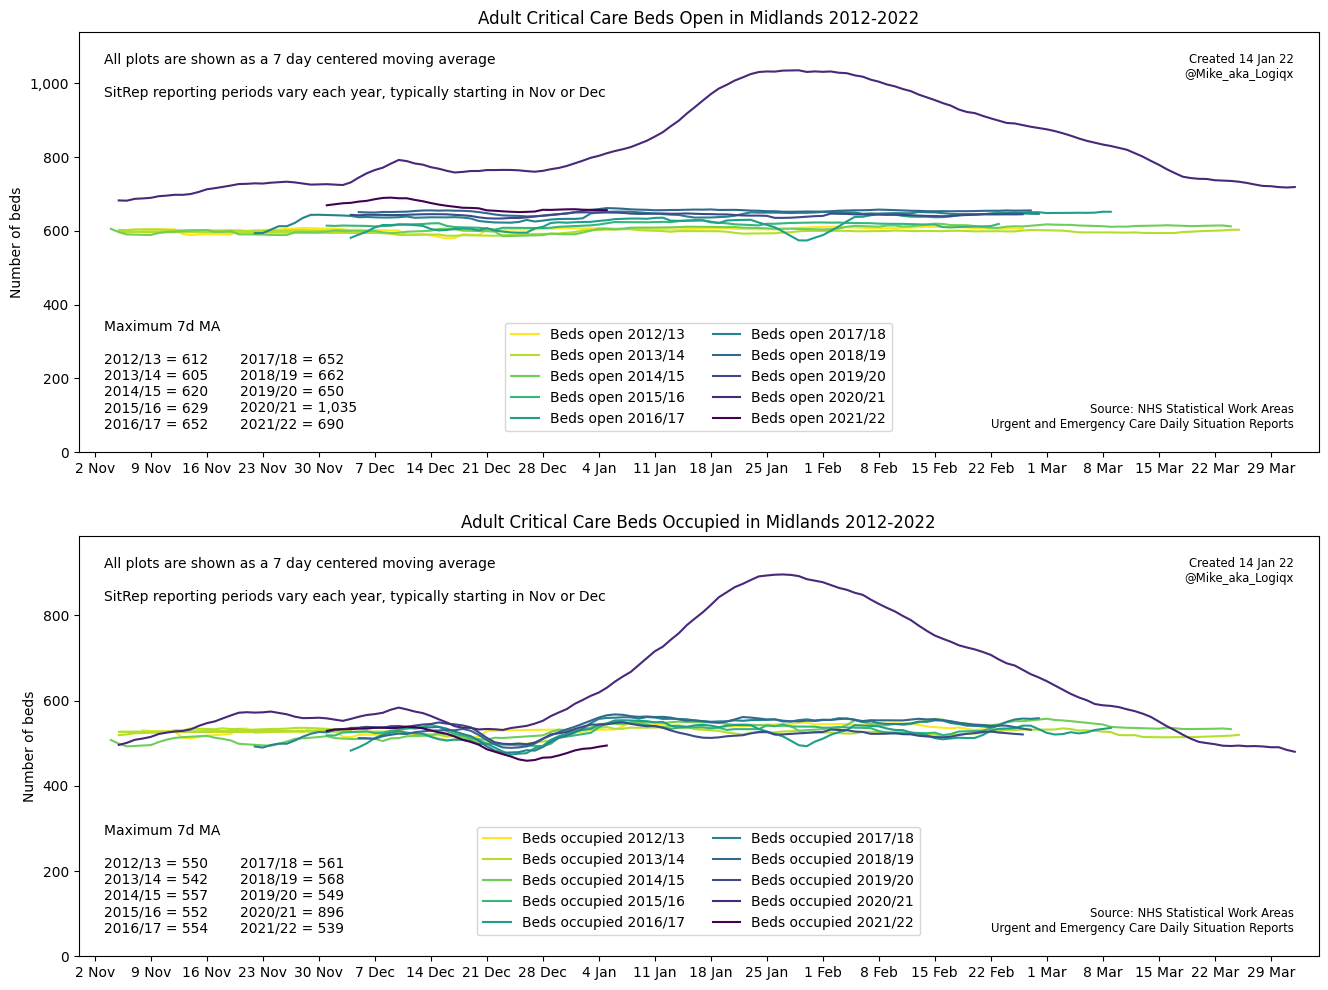
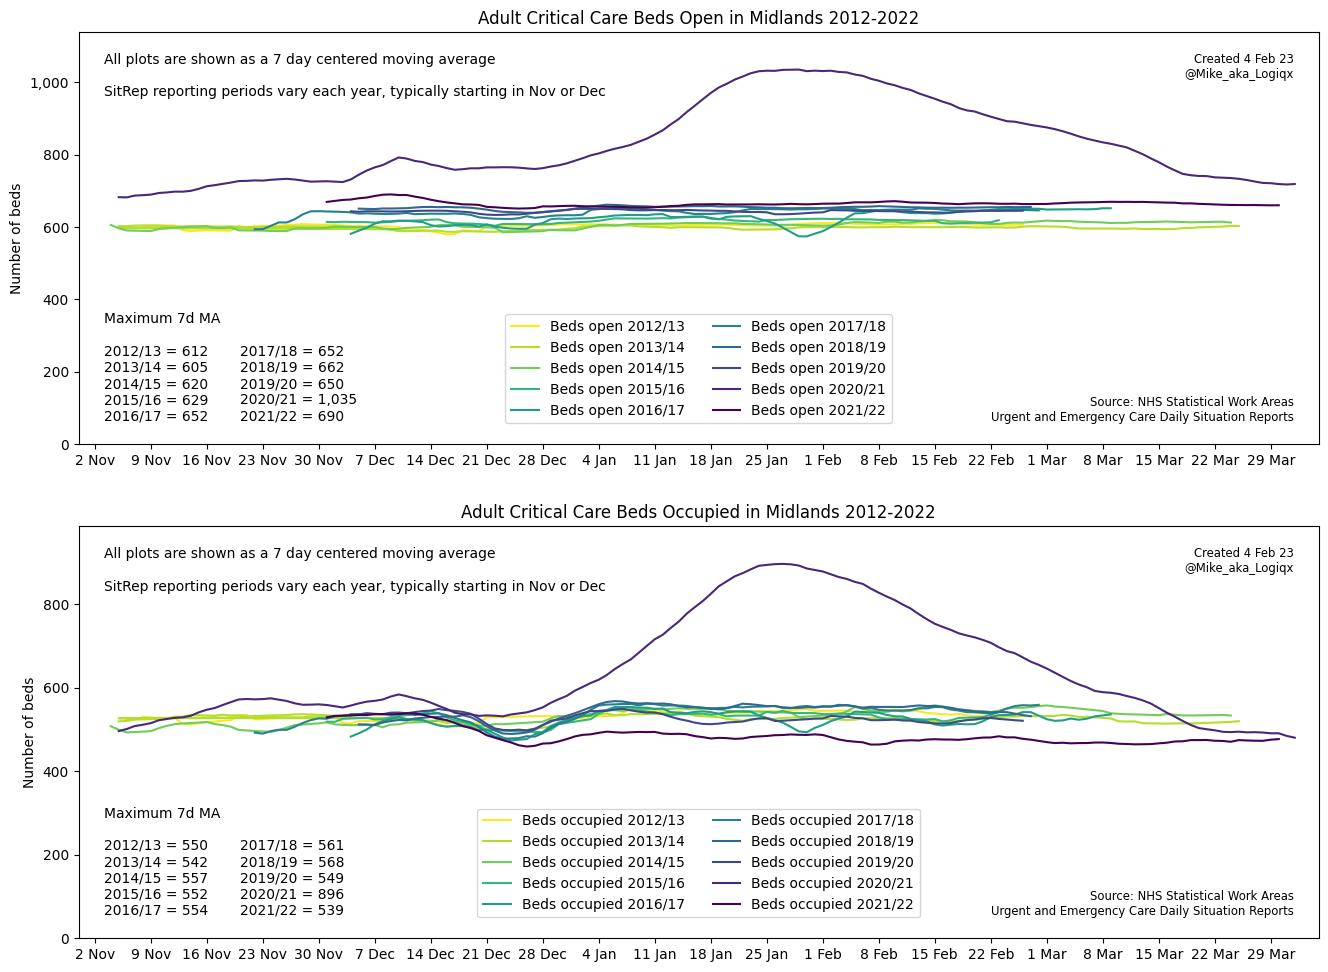
Re-run sitrep reports for full 2021-2022 season

diff --git a/docs/uec-sitreps/gallery.html b/docs/uec-sitreps/gallery.html
@@ -27,13 +27,13 @@
 
 	<div class="gallery" itemscope itemtype="http://schema.org/ImageGallery">
 		<figure itemprop="associatedMedia" itemscope itemtype="http://schema.org/ImageObject">
-			<a href="./england.png" itemprop="contentUrl" data-size="1328x990">
+			<a href="./england.png" itemprop="contentUrl" data-size="1328x972">
 				<img src="./england_thumb.png" itemprop="thumbnail" alt="England">
 			</a>
 			<figcaption itemprop="caption description">England</figcaption>
 		</figure>
 		<figure itemprop="associatedMedia" itemscope itemtype="http://schema.org/ImageObject">
-			<a href="./london.png" itemprop="contentUrl" data-size="1328x990">
+			<a href="./london.png" itemprop="contentUrl" data-size="1328x972">
 				<img src="./london_thumb.png" itemprop="thumbnail" alt="London">
 			</a>
 			<figcaption itemprop="caption description">London</figcaption>
@@ -43,13 +43,13 @@
 
 	<div class="gallery" itemscope itemtype="http://schema.org/ImageGallery">
 		<figure itemprop="associatedMedia" itemscope itemtype="http://schema.org/ImageObject">
-			<a href="./south_east.png" itemprop="contentUrl" data-size="1315x990">
+			<a href="./south_east.png" itemprop="contentUrl" data-size="1315x972">
 				<img src="./south_east_thumb.png" itemprop="thumbnail" alt="South East">
 			</a>
 			<figcaption itemprop="caption description">South East</figcaption>
 		</figure>
 		<figure itemprop="associatedMedia" itemscope itemtype="http://schema.org/ImageObject">
-			<a href="./east_england.png" itemprop="contentUrl" data-size="1315x990">
+			<a href="./east_england.png" itemprop="contentUrl" data-size="1315x972">
 				<img src="./east_england_thumb.png" itemprop="thumbnail" alt="East of England">
 			</a>
 			<figcaption itemprop="caption description">East of England</figcaption>
@@ -59,13 +59,13 @@
 
 	<div class="gallery" itemscope itemtype="http://schema.org/ImageGallery">
 		<figure itemprop="associatedMedia" itemscope itemtype="http://schema.org/ImageObject">
-			<a href="./north_west.png" itemprop="contentUrl" data-size="1315x990">
+			<a href="./north_west.png" itemprop="contentUrl" data-size="1315x972">
 				<img src="./north_west_thumb.png" itemprop="thumbnail" alt="North West">
 			</a>
 			<figcaption itemprop="caption description">North West</figcaption>
 		</figure>
 		<figure itemprop="associatedMedia" itemscope itemtype="http://schema.org/ImageObject">
-			<a href="./north_east_yorkshire.png" itemprop="contentUrl" data-size="1315x990">
+			<a href="./north_east_yorkshire.png" itemprop="contentUrl" data-size="1315x972">
 				<img src="./north_east_yorkshire_thumb.png" itemprop="thumbnail" alt="North East and Yorkshire">
 			</a>
 			<figcaption itemprop="caption description">North East and Yorkshire</figcaption>
@@ -75,13 +75,13 @@
 
 	<div class="gallery" itemscope itemtype="http://schema.org/ImageGallery">
 		<figure itemprop="associatedMedia" itemscope itemtype="http://schema.org/ImageObject">
-			<a href="./midlands.png" itemprop="contentUrl" data-size="1328x990">
+			<a href="./midlands.png" itemprop="contentUrl" data-size="1328x972">
 				<img src="./midlands_thumb.png" itemprop="thumbnail" alt="Midlands">
 			</a>
 			<figcaption itemprop="caption description">Midlands</figcaption>
 		</figure>
 		<figure itemprop="associatedMedia" itemscope itemtype="http://schema.org/ImageObject">
-			<a href="./south_west.png" itemprop="contentUrl" data-size="1315x990">
+			<a href="./south_west.png" itemprop="contentUrl" data-size="1315x972">
 				<img src="./south_west_thumb.png" itemprop="thumbnail" alt="South West">
 			</a>
 			<figcaption itemprop="caption description">South West</figcaption>
